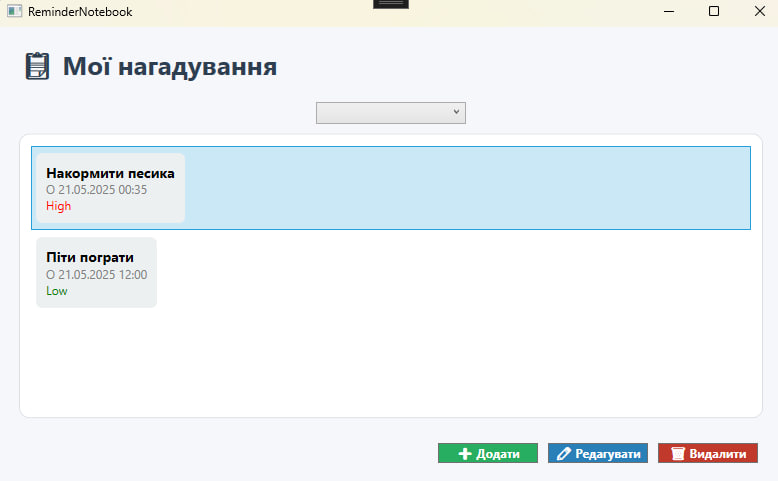
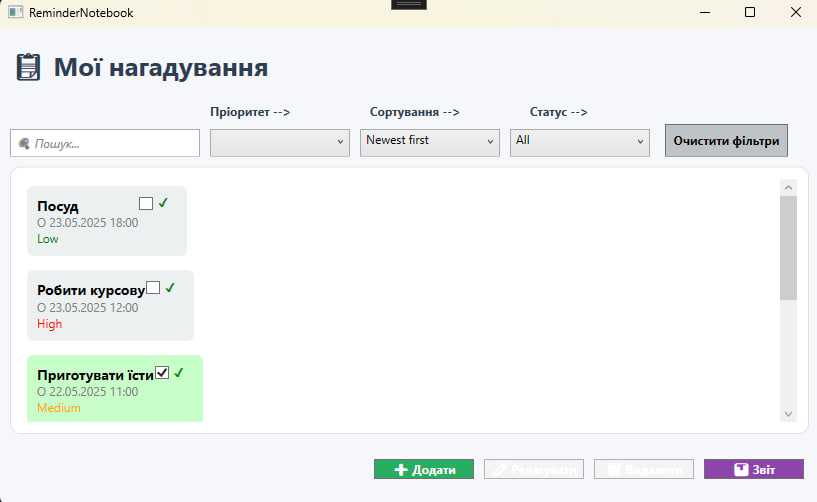
docs: finalize README and add UI screenshots

diff --git a/ReminderNotebook/README.md b/ReminderNotebook/README.md
@@ -10,9 +10,12 @@
 - Додавання, редагування та видалення нотаток з нагадуваннями
 - Пріоритет (Low / Medium / High) і дата виконання
 - Сповіщення при настанні часу (MessageBox)
-- Фільтрація за пріоритетом
+- Пошук і фільтрація за пріоритетом, статусом виконання та текстом
+- Сортування нагадувань (новіші/старіші/пріоритет)
+- Позначення "Виконано" та підсвітка завершених
+- Вікно аналітики (звіт за статусом)
 - Автоматичне збереження даних у форматі JSON
-- Чистий код і використання патернів
+- Чистий код і використання патернів проєктування
 
 ---
 
@@ -77,6 +80,34 @@
 - Створено інтерфейс `IReminderObserver`
 - `MainViewModel` є Subject, `Notifier` — Observer
 - Реалізовано підписку/відписку та `Notify(reminder)`
+
+### ✅ Етап 8.1 — Пошук та сортування**
+- 🔍 Додано **пошук** за назвою та описом
+- 📥 Реалізовано **сортування** нагадувань:
+  - `Newest first` — найновіші вгорі
+  - `Oldest first` — найстаріші вгорі
+  - `By priority` — за рівнем пріоритету
+
+### ✅ Етап 8.2 — Очищення фільтрів**
+- 🧹 Додано кнопку **очистити фільтри**
+  - Скидає вибрані фільтри за пріоритетом, статусом та поле пошуку
+
+### ✅ Етап 8.3 — Фільтрація за статусом**
+- ✅ Додано **фільтр за статусом виконання**:
+  - `Completed` — виконані нагадування
+  - `Pending` — не виконані
+  - `All` — всі нагадування
+
+### ✅ Етап 8.4 — Відмітка виконання та підсвітка**
+- 📌 Додано **чекбокс для позначення "виконано"** у кожному нагадуванні
+- 🔄 Зміни зберігаються автоматично
+- 🎨 **Завершені нагадування** мають інший стиль (сірий фон, закреслення)
+
+### ✅ Етап 8.5 — Вікно статистики**
+- 📊 Додано **аналітичне вікно (ReportWindow)**:
+  - Загальна кількість нагадувань
+  - Скільки виконано та невиконано
+  - Кількість нагадувань за останні 7 днів
 
 ---
 
